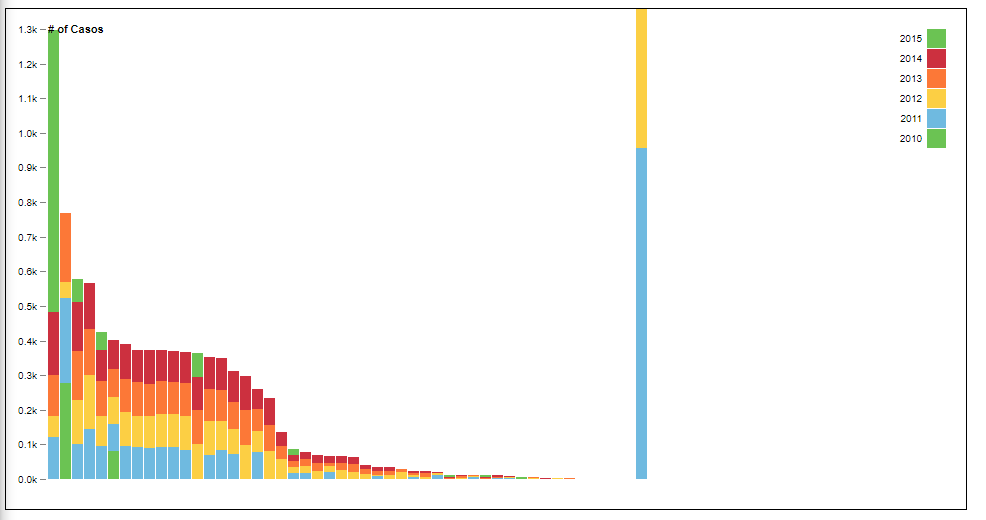
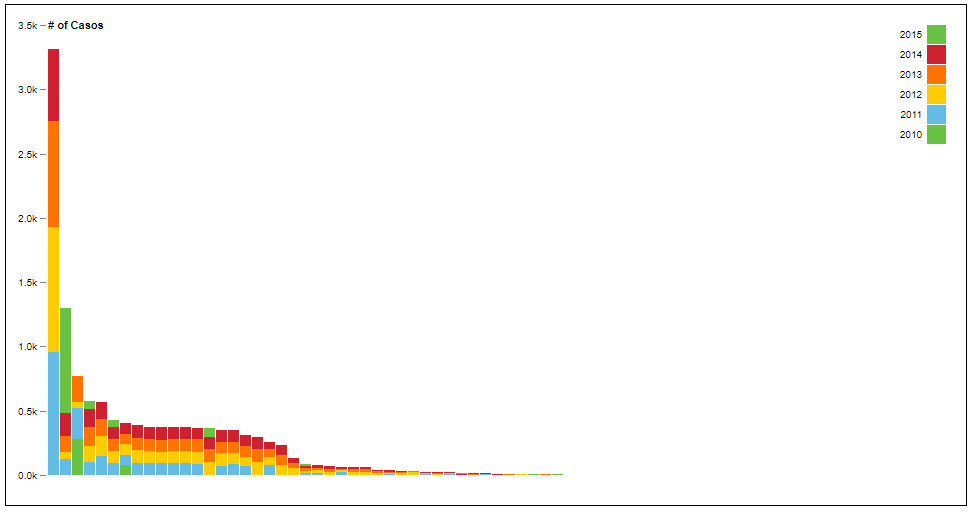
update

Changed region(s): [[0.0, 0.0, 0.9856, 1.0]]

diff --git a/homework3/index.html b/homework3/index.html
@@ -96,48 +96,46 @@ let y = d3.scaleLinear()
 let z = d3.scaleOrdinal()
     .range(['#69c242', '#64bbe3', '#ffcc00', '#ff7300', '#cf2030']);
 
+var stack = d3.stack()
+    .offset(d3.stackOffsetExpand);    
+
 rawDS = d3.csv("../datasets/BATERIA_INDICADORES_INFANCIA_Y_ADOLESCENCIA.csv", function(d) {
-    /*for (i = 1, t = 0; i < columns.length; ++i) {
-        t += d[columns[i]] = +d[columns[i]];
-        //console.log(columns[i]);
-    }*/
-    //d.total = t;
-    //console.log(columns);
-    return d;
+    return {
+        name : d['Nombre del Indicador'],
+        2010 : +d[2010],
+        2011 : +d[2011],
+        2012 : +d[2012],
+        2013 : +d[2013],
+        2014 : +d[2014],
+        2015 : +d[2015]
+  };
 });
 
 rawDS.then((d) => {
     for (var index in d) {
       if (index != 'columns') {
-            //console.log(d[index]);
-            //console.log(d['columns'].length);
             for (i = 1, t = 0; i < d['columns'].length; ++i) {
                 col = d['columns'][i];
+                if (!d[index][col]) d[index][col] = 0;
                 t += d[index][col] = +d[index][col];
                 //t += d[columns[i]] = +d[columns[i]];
                 
-                //console.log(t);
-                //console.log(d[i][col]);
             }
-            //console.log(t);
+            if (!t) t = 0;
             d[index].total = t;
-            //console.log(d.total);
             //return d;
         }
     }
-    let keys = d.columns.slice(1);
-    //console.log(keys);
-    //console.log(d);
+    const keys = d.columns.slice(1);
 
     d.sort((a, b) => {
-        //console.log(a);
-        //console.log(b.total - a.total);
+        // if (a['Nombre del Indicador'] == "Numero de niñas, niños y adolescentes víctimas del conflicto armado" || b['Nombre del Indicador'] == "Numero de niñas, niños y adolescentes víctimas del conflicto armado")
+        //     console.log(b.total - a.total);
         return b.total - a.total;
         //
     });
     x.domain(d.map(function(d) {
-        //console.log(d.State);
-        return d['Nombre del Indicador'];
+        return d['name'];
     }));
 
     y.domain([0, d3.max(d, function(d) {
@@ -150,24 +148,19 @@ rawDS.then((d) => {
         .data(d3.stack().keys(keys)(d))
         .enter().append("g")
         .attr("fill", function(d) {
-           //console.log(d.key);
             return z(d.key);
         })
         .selectAll("rect")
-        .data(function(d) {
-            //console.log(d);
-            return d;
+        .data((da) => {
+            return da;
         })
         .enter().append("rect")
-        .attr("x", function(d) {
-            //console.log(d.data['Nombre del Indicador']);
-            return x(d.data['Nombre del Indicador']);
+        .attr("x", (d) => {
+            return x(d.data['name']);
         })
         .attr("y", function(d) {
-            //console.log(y(d[1]));
             if (!d[1])
                 d[1] = 0;
-            //console.log(d[1]);
             return y(d[1]);
         })
         .attr("height", function(d) {
@@ -182,7 +175,7 @@ rawDS.then((d) => {
                     div.transition()
                         .duration(200)
                         .style("opacity", .9);
-                        div.html(formatNumber(tot) + " : " + d.data['Nombre del Indicador'] + "<br/>")
+                        div.html(formatNumber(tot) + " : " + d.data['name'] + "<br/>")
                             .style("left", (d3.event.pageX) + "px")
                             .style("top", (d3.event.pageY - 28) + "px")
                             .style("width", "400px")
@@ -222,7 +215,7 @@ rawDS.then((d) => {
             .enter().append("g")
             .attr("transform", function(d, i) {
                 return "translate(0," + i * 20 + ")";
-            });
+            });           
 
         legend.append("rect")
             .attr("x", width - 19)
@@ -250,7 +243,7 @@ rawDS.then((d) => {
     <ul>
         <li><b>WHAT:</b> Data: Multidimensional table: One quantitative value attribute, two categorical key attributes for the year and violence type.</li>
         <li><b>WHAT:</b> Derived: One quantitative attribute value to sort the view.</li>
-        <li><b>WHY:</b> Present distribution of types of violence and deaths over a period of 4 years in Colombia./li>
+        <li><b>WHY:</b> Present distribution of types of violence and deaths over a period of 4 years in Colombia. <b>SEPARATE, ORDER and ALIGN</b></li>
         <li><b>HOW:</b> Encode: Line marks with length channel; rectilinear layout.</li>
         <li><b>HOW:</b> Manipulate: To show the type of cases of violence, category 1.</li>
         <li><b>Marks:</b>Lines in an ordered way to express the caterory related to the type of cases</li>

diff --git a/index.html b/index.html
@@ -30,7 +30,7 @@
         <!-- Main -->
         <section id="main">
             <section class="thumbnails">
-                <div><a href="Bono/index.html"><span class="label"><span id="bonus">Bono: </span> Incremento de la Temperatura desde 1950 (Promedio de cada 5 años)</span></a></div>
+                <div><a href="Bono/index.html"><span class="label"><span id="bonus">Bono: </span> Incremento de la Temperatura desde 1950 (Promedio de cada 10 años)</span></a></div>
                 <div>
                     <a href="tarea2/index.html"><span class="label"><span id="hw2">Tarea 2:</span> Exploración de los medicamentos de Colombia de acuerdo con los datos del INVIMA</span></a>
                     <a href="homework3/index.html"><span class="label"><span id="hw3">Tarea 3:</span> Presentation of the distribution of cases of violence in Colombia with respect to children and adolescents</span></a>

diff --git a/README.md b/README.md
@@ -1,28 +1,7 @@
-# Visual-Analytics
+# Repositirio de tareas, bonos y proyectos de Visual Analytics.
 
-## 1) Objetivo del proyecto y tecnologías usadas
+ - (Bono: Incremento de la Temperatura desde 1950 (Promedio de cada 10 años))[Bono/index.html]
 
-Proyecto que busca permitir explorar los medicamentos de Colombia y permitirles a los pacientes saber si sus medicamentos van a ser entregados por las EPS
+ - (Tarea 2: Exploración de los medicamentos de Colombia de acuerdo con los datos del INVIMA)[tarea2/index.html]
 
-Las tecnologías utilizadas fueron:
-
-* HTML5
-* D3 v5
-* JavaScript ECMAScript 2017
-* CSS
-
-## 2) ¿Cómo se corre (prerrequisitos etc)?
-
-* Lo único necesario es acceder al enlace [vladcuevas.github.io](https://vladcuevas.github.io)
-
-## 3) Autores con links, y link a la página del proyecto
-
-* Vladimir E. Cuevas S.  @ [https://github.com/vladcuevas](https://github.com/vladcuevas)
-
-## 4) Un screenshot
-
-![alt text](http://vladcuevas.github.io/images/screenshot.PNG)
-
-## 5) La licencia MIT
-
-* La licencia [MIT](https://github.com/vladcuevas/vladcuevas.github.io/blob/master/LICENSE) está incluida dentro del repositorio
+ - (Tarea 3: Presentation of the distribution of cases of violence in Colombia with respect to children and adolescents) [homework3/index.html]

diff --git a/homework3/README.md b/homework3/README.md
@@ -16,7 +16,7 @@ The goal of this project is to present in the simplest possible way how the chil
 
 *   **WHAT:** Data: Multidimensional table: One quantitative value attribute, two categorical key attributes for the year and violence type.
 *   **WHAT:** Derived: One quantitative attribute value to sort the view.
-*   **WHY:** Present distribution of types of violence and deaths over a period of 4 years in Colombia./li>
+*   **WHY:** Present distribution of types of violence and deaths over a period of 4 years in Colombia., **Separate, Order and Align.**
 *   **HOW:** Encode: Line marks with length channel; rectilinear layout.
 *   **HOW:** Manipulate: To show the type of cases of violence, category 1.
 *   **Marks:**Lines in an ordered way to express the caterory related to the type of cases
